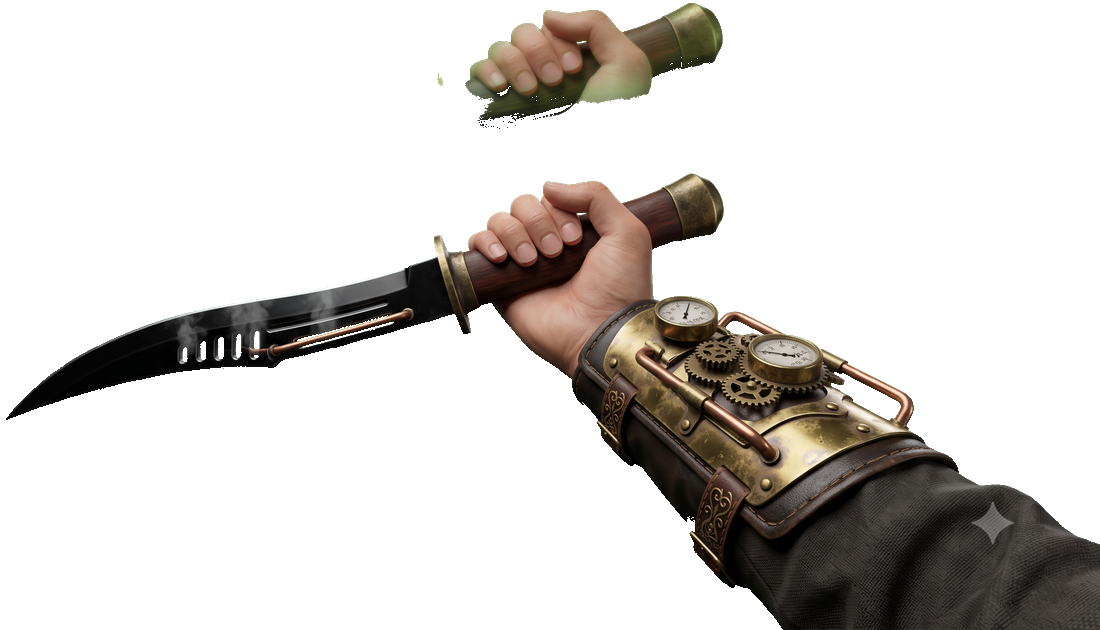
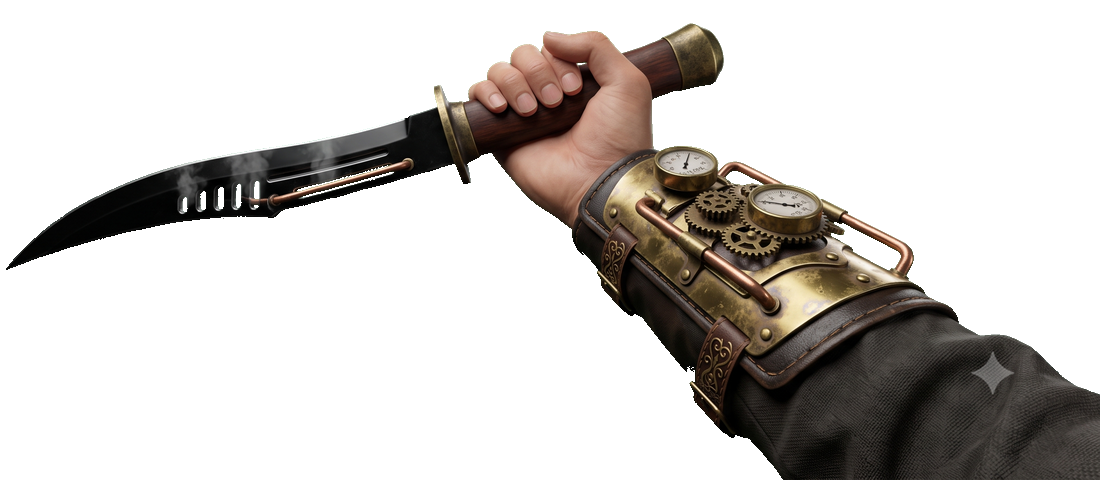
feat: 저잣거리 실사 한옥 + 휠 X자 4분할 + 환도 슥삭 베기 + 택티컬 리로드
- 저잣거리: 북촌 한옥 실사(위키미디어 CC, 야간 그레이드 컷아웃) 측면 6채 +
  관문 좌우 원경 지붕 무리 2판 — 개활지 빈 공간 해소
- 무기 휠: X자 4등분(NE장총/SE환도/SW권총/NW활) + 분할선 + 사분면 라벨(잠금 흐림),
  하이라이트 90도. 집경 카빈→승자 권총, 천마도→흑각궁(무소음 — 사격해도 경보 없음) 개명
- 환도: 유령 손 잘린 아트 크롭(1100x480), 대각 슥삭 베기 모션 + 원호 참격 플래시
- 재장전: 택티컬 리로드 4단 모션(캔트-탈착-삽탄-노리쇠 스냅 오버슈트)

Changed region(s): [[0.0, 0.0, 1.0, 0.9688]]

diff --git a/index.html b/index.html
@@ -122,7 +122,17 @@
   #wheelbox{position:relative; width:min(52vh,480px)}
   #wheelbox img{width:100%; display:block; filter:drop-shadow(0 0 30px #000)}
   #wheelhl{position:absolute; inset:5%; border-radius:50%; pointer-events:none; mix-blend-mode:screen;
-           background:conic-gradient(from calc(var(--a,0deg) - 30deg), rgba(255,180,70,.5) 0deg 60deg, transparent 60deg 360deg)}
+           background:conic-gradient(from calc(var(--a,45deg) - 45deg), rgba(255,180,70,.5) 0deg 90deg, transparent 90deg 360deg)}
+  /* X자 분할선 + 사분면 무기 라벨 */
+  #wheelx{position:absolute; inset:5%; border-radius:50%; pointer-events:none; overflow:hidden}
+  #wheelx::before, #wheelx::after{content:''; position:absolute; left:50%; top:-8%; height:116%; width:2px; margin-left:-1px;
+    background:linear-gradient(180deg, transparent, rgba(232,220,192,.55) 22%, rgba(232,220,192,.55) 78%, transparent)}
+  #wheelx::before{transform:rotate(45deg)} #wheelx::after{transform:rotate(-45deg)}
+  .wlabel{position:absolute; transform:translate(-50%,-50%); font-size:16px; font-weight:800; letter-spacing:.14em;
+          color:var(--ink); text-shadow:0 1px 4px #000, 0 0 12px rgba(0,0,0,.9); background:rgba(10,12,26,.72);
+          border:1px solid var(--line); border-radius:8px; padding:3px 12px; pointer-events:none}
+  .wlabel.locked{opacity:.4}
+  #wl-rifle{left:73%; top:27%} #wl-hwando{left:73%; top:73%} #wl-carbine{left:27%; top:73%} #wl-ritual{left:27%; top:27%}
   #wheel.flash{background:transparent; pointer-events:none}
   #wheel.flash #wheelbox{width:min(30vh,280px)}
   #wheel.flash .wheelhint{font-size:13px}
@@ -133,6 +143,16 @@
   .twchip{min-width:220px; text-align:center; background:var(--panel); border:2px solid var(--line); border-radius:12px; padding:14px 26px; font-size:19px; font-weight:800; letter-spacing:.08em; transition:border-color .12s, transform .12s}
   .twchip.sel{border-color:#ffd24a; color:#ffd24a; transform:scale(1.07); box-shadow:0 0 18px rgba(255,210,74,.35)}
   .twhint{font-size:13px; color:#8f94b5; margin-top:6px}
+
+  /* ── 환도 참격 궤적 (미러는 부모, 회전 애니는 ::before — transform 충돌 방지) ── */
+  #slashfx{position:fixed; left:50%; top:52%; width:44vmin; height:44vmin; margin:-22vmin 0 0 -22vmin; pointer-events:none; z-index:8}
+  #slashfx::before{content:''; position:absolute; inset:0; border-radius:50%; opacity:0;
+    background:conic-gradient(from 300deg, transparent 0deg, rgba(255,255,255,0) 20deg, rgba(235,245,255,.95) 55deg, rgba(159,216,212,.35) 80deg, transparent 100deg);
+    -webkit-mask-image:radial-gradient(circle, transparent 52%, #000 56%, #000 74%, transparent 78%);
+    mask-image:radial-gradient(circle, transparent 52%, #000 56%, #000 74%, transparent 78%)}
+  #slashfx.go::before{animation:slashArc .22s ease-out forwards}
+  @keyframes slashArc{0%{opacity:0; transform:rotate(-40deg) scale(.7)} 18%{opacity:1} 100%{opacity:0; transform:rotate(150deg) scale(1.15)}}
+  body.hand-L #slashfx{transform:scaleX(-1)}
 
   /* ── ADS 조준경 (스팀펑크 모노큘러) ── */
   #scope{position:fixed; inset:0; z-index:9; pointer-events:none; opacity:0}
@@ -202,9 +222,16 @@
   <div id="wheelbox">
     <img src="assets/ui/wheel.png" alt="">
     <div id="wheelhl"></div>
+    <div id="wheelx"></div>
+    <span class="wlabel" id="wl-rifle">장총</span>
+    <span class="wlabel" id="wl-hwando">환도</span>
+    <span class="wlabel" id="wl-carbine">권총</span>
+    <span class="wlabel" id="wl-ritual">활</span>
   </div>
   <div class="wheelhint" id="wheelname">Space 탭 — 무기 전환 · 1/2/3 직접 선택</div>
 </div>
+
+<div id="slashfx"></div>
 
 <!-- 투척류 휠 (G 홀드) -->
 <div id="twheel" class="hud hidden">
@@ -298,7 +325,7 @@
     <div class="ammochip" id="reschip"><span id="resval">60</span></div>
   </div>
   <div id="reloadmsg"></div>
-  <div id="wslots"><b>1</b> 영천 · <span id="ws2">2 집경</span> · <span id="ws3">3 천마도</span> · <span id="ws4">4 환도</span> · <b>Space</b> 전환/휠</div>
+  <div id="wslots"><b>1</b> 장총 · <span id="ws2">2 권총</span> · <span id="ws3">3 활</span> · <span id="ws4">4 환도</span> · <b>Space</b> 전환/휠</div>
 </div>
 <div id="ult" class="hud">
   <img id="ultimg" src="assets/ui/hud_ult.png" alt="">

diff --git a/src/vmsprite.js b/src/vmsprite.js
@@ -36,7 +36,11 @@ export function initVmSprite() {
     override = { sprite: cur(), until: now() + ms, anim: 'reload', dur: ms };
   });
   state.on('assassinateDone', () => { override = { sprite: SPRITES.dagger, until: now() + 700, anim: 'stab' }; });
-  state.on('meleeSwing', () => { override = { sprite: SPRITES.dagger, until: now() + 380, anim: 'stab', dur: 380 }; });
+  state.on('meleeSwing', () => {
+    override = { sprite: SPRITES.dagger, until: now() + 340, anim: 'slash', dur: 340 };
+    const fx = document.getElementById('slashfx');           // 참격 궤적 플래시
+    if (fx) { fx.classList.remove('go'); void fx.offsetWidth; fx.classList.add('go'); }
+  });
   state.on('grenadeThrown', () => { override = { sprite: SPRITES.grenade, until: now() + 650, anim: 'throw' }; });
   state.on('ultCastStart', () => { override = { sprite: SPRITES.mapae, until: now() + 1700, anim: 'raise' }; });
   refresh();
@@ -82,13 +86,21 @@ export function updateVmSprite(dt) {
     const dur = override.dur || 700;
     const k = 1 - Math.max(0, (override.until - t)) / dur;
     if (override.anim === 'stab') { ax = -60 * Math.sin(k * Math.PI); ay = -40 * Math.sin(k * Math.PI); ar = -8 * Math.sin(k * Math.PI); }
+    if (override.anim === 'slash') {                          // 대각 베기: 오른위→왼아래 호를 그리며 슥삭
+      const s = Math.min(1, k * 1.12);
+      ax = 110 - 300 * s;                                     // 오른쪽에서 왼쪽으로 휩쓸기
+      ay = -30 - 90 * Math.sin(s * Math.PI);                  // 호 (중간에 치켜들림)
+      ar = 26 - 78 * s;                                       // 칼날 각도 회전
+      scale = 1 + 0.12 * Math.sin(s * Math.PI);
+    }
     if (override.anim === 'throw') { ay = 30 - 90 * Math.sin(Math.min(1, k * 1.3) * Math.PI); ar = -6 * Math.sin(k * Math.PI); }
     if (override.anim === 'raise') { ay = 40 - 70 * Math.min(1, k * 2); scale = 1.06; }
     if (override.anim === 'reload') {
-      // 총을 내리고(0~0.35) → 기울여 만지작(0.35~0.8, 흔들림) → 척 올림(0.8~1)
-      if (k < 0.35) { const p = k / 0.35; ay = 90 * p; ar = 14 * p; }
-      else if (k < 0.8) { const p = (k - 0.35) / 0.45; ay = 90 + Math.sin(p * Math.PI * 3) * 10; ar = 14 - p * 4; ax = Math.sin(p * Math.PI * 2) * 8; }
-      else { const p = (k - 0.8) / 0.2; ay = 90 * (1 - p * p); ar = 10 * (1 - p); }
+      // 택티컬 리로드: 캔트(0~0.25) → 탄창 탈착 홱(0.25~0.5) → 삽탄(0.5~0.75) → 노리쇠 스냅(0.75~1)
+      if (k < 0.25) { const p = k / 0.25; ay = 55 * p; ar = 22 * p; ax = -12 * p; }
+      else if (k < 0.5) { const p = (k - 0.25) / 0.25; ay = 55 + 55 * Math.sin(p * Math.PI * 0.5); ar = 22 + 6 * p; ax = -12 - 26 * p; }
+      else if (k < 0.75) { const p = (k - 0.5) / 0.25; ay = 110 - 40 * p; ar = 28 - 8 * p; ax = -38 + 30 * p; }
+      else { const p = (k - 0.75) / 0.25; const s = 1 - (1 - p) * (1 - p); ay = 70 * (1 - s) - 8 * Math.sin(p * Math.PI); ar = 20 * (1 - s); ax = -8 * (1 - s); }
     }
   }
 

diff --git a/src/assets.js b/src/assets.js
@@ -450,6 +450,29 @@ export function buildEnvironment() {
 
   // 광화문 광장 (z 0 ~ -40): 개활 + 측면 담장 + 광화문 실루엣
   addWallRun(-16, 4, -40); addWallRun(16, 4, -40);
+  // ── 저잣거리: 실사 한옥(북촌, 위키미디어 CC) 빌보드 — 담장 너머 마을 집들 ──
+  new THREE.TextureLoader().load('assets/real_hanok_row_cut.png?v=1', (tex) => {
+    tex.colorSpace = THREE.SRGBColorSpace;
+    const W = 11, H = W / (tex.image.width / tex.image.height);
+    const hmat = new THREE.MeshBasicMaterial({ map: tex, transparent: true, alphaTest: 0.06, color: 0x9aa4c8, depthWrite: true, side: THREE.DoubleSide });
+    const hgeo = new THREE.PlaneGeometry(W, H);
+    for (const [x, z, flip] of [[-20.5, -6, 1], [-20.5, -19, -1], [-20.5, -33, 1], [20.5, -10, -1], [20.5, -24, 1], [20.5, -38, -1]]) {
+      const p = new THREE.Mesh(hgeo, hmat);
+      p.position.set(x, H / 2 - 0.3, z);
+      p.rotation.y = (x < 0 ? 1 : -1) * Math.PI / 2;
+      p.scale.x = flip;   // 미러 변주
+      env.add(p);
+    }
+  });
+  // 관문 좌우 원경 한옥 지붕 무리 (블루아워 북촌 크롭)
+  new THREE.TextureLoader().load('assets/real_hanok_far_cut.png?v=1', (tex) => {
+    tex.colorSpace = THREE.SRGBColorSpace;
+    const W = 24, H = W / (tex.image.width / tex.image.height);
+    const fmat = new THREE.MeshBasicMaterial({ map: tex, transparent: true, alphaTest: 0.06, color: 0x707ca4, depthWrite: true });
+    const p1 = new THREE.Mesh(new THREE.PlaneGeometry(W, H), fmat);
+    p1.position.set(-17, H / 2 + 1.2, -48); env.add(p1);
+    const p2 = p1.clone(); p2.position.set(18, H / 2 + 0.9, -47.5); p2.scale.x = -1; env.add(p2);
+  });
   { // 담장 디테일 (시각 전용 1메시): 하단 장대석 트림 + 6.6m 간격 석주 + 기와 캡 용마루
     const wp = [];
     for (const side of [-1, 1]) {

diff --git a/src/config.js b/src/config.js
@@ -32,8 +32,9 @@ export const PLAYER = {
 // ── 무기 — PPTX {0}/{1} 규칙: 재장전량 = min(MaxMag-현재, 예비), 예비에서 정확히 차감 ──
 export const WEAPONS = {
   rifle:   { key: 'rifle',   name: '영천 장총', mag: 6, reserve: 60, dmg: 10, weakMult: 2, fireMs: 330, reloadMs: 600,  spread: 12, kick: 0.045 },
-  carbine: { key: 'carbine', name: '집경 카빈', mag: 8, reserve: 48, dmg: 6,  weakMult: 2, fireMs: 180, reloadMs: 800,  spread: 24, kick: 0.028 },
-  ritual:  { key: 'ritual',  name: '천마도',    mag: 1, reserve: 3,  dmg: 60, weakMult: 2, fireMs: 800, reloadMs: 1600, spread: 8,  kick: 0.10 },
+  carbine: { key: 'carbine', name: '승자 권총', mag: 8, reserve: 48, dmg: 6,  weakMult: 2, fireMs: 180, reloadMs: 800,  spread: 24, kick: 0.028 },
+  ritual:  { key: 'ritual',  name: '흑각궁',    mag: 1, reserve: 3,  dmg: 60, weakMult: 2, fireMs: 800, reloadMs: 1600, spread: 8,  kick: 0.10,
+             silent: true },   // 활 — 무소음 (은신 시너지)
   hwando:  { key: 'hwando',  name: '환도',      mag: 1, reserve: 0,  dmg: 34, weakMult: 2, fireMs: 420, reloadMs: 0,    spread: 0,  kick: 0.06,
              melee: true, range: 2.6, arcDeg: 100 },   // 근접 — 탄약 없음, 숏앤슬래시
 };

diff --git a/src/ui.js b/src/ui.js
@@ -171,7 +171,7 @@ function renderAmmo() {
   renderSlots();
   renderWheelHl(state.currentWeapon);
 }
-const WHEEL_ANGLE = { rifle: 0, hwando: 60, carbine: 180, ritual: 240 }; // 휠 아트 섹터: 승자총통/환도/신기전/비격진천뢰
+const WHEEL_ANGLE = { rifle: 45, hwando: 135, carbine: 225, ritual: 315 }; // X자 4등분: ↗장총 ↘환도 ↙권총 ↖활
 function renderWheelHl(key) {
   const k = key || state._wheelPick || state.currentWeapon;
   $('wheelhl').style.setProperty('--a', (WHEEL_ANGLE[k] || 0) + 'deg');
@@ -207,6 +207,9 @@ function renderSlots() {
   $('ws2').style.opacity = state.unlockedWeapons.includes('carbine') ? 1 : 0.3;
   $('ws3').style.opacity = state.unlockedWeapons.includes('ritual') ? 1 : 0.3;
   const w4 = $('ws4'); if (w4) w4.style.opacity = state.unlockedWeapons.includes('hwando') ? 1 : 0.3;
+  for (const k of ['rifle', 'carbine', 'ritual', 'hwando']) {   // 휠 사분면 라벨 잠금 표시
+    const el = $('wl-' + k); if (el) el.classList.toggle('locked', !state.unlockedWeapons.includes(k));
+  }
 }
 function renderItems() {
   $('it-tonic').innerHTML = `탕약 <b>×${state.items.tonic}</b> <span style="opacity:.6">T</span>`;

diff --git a/src/enemies.js b/src/enemies.js
@@ -2,7 +2,7 @@
 // TC 대원칙: 잡졸(화승병) 사격은 전부 연출탄(데미지 0). 위협은 명중탄 스케줄뿐.
 
 import * as THREE from 'three';
-import { ENEMIES, DANGER, SCORE, PLAYER } from './config.js';
+import { ENEMIES, DANGER, SCORE, PLAYER, WEAPONS } from './config.js';
 import { state, now } from './state.js';
 import { buildSoldier, retrofitSoldierAnim } from './assets.js';
 import { registerHittable, unregisterActor, spawnDangerShot, creditKill, creditHit, creditShootdown, damagePlayer } from './combat.js';
@@ -19,7 +19,10 @@ const _v = new THREE.Vector3(), _q = new THREE.Quaternion(), _m = new THREE.Matr
 export function initEnemies(sc) {
   scene = sc;
   // 은신 시스템: 사격 소리는 존 전체 경보
-  state.on('shotFired', () => { for (const a of actors) a.aware = true; });
+  state.on('shotFired', () => {
+    if (WEAPONS[state.currentWeapon]?.silent) return;   // 흑각궁: 무소음 — 경보 없음
+    for (const a of actors) a.aware = true;
+  });
   state.on('assassinatePressed', tryAssassinate);
   // 애니 GLB 로드 완료 → 살아있는 액터 + 풀 전체 일괄 소급
   state.on('soldierGLBReady', () => {

diff --git a/src/audio.js b/src/audio.js
@@ -14,7 +14,10 @@ export function initAudio() {
     state.emit('muteChanged');
   });
   // 게임 이벤트 → SFX
-  state.on('shotFired', () => sfxShot());
+  state.on('shotFired', () => {
+    if (WEAPONS[state.currentWeapon]?.silent) sfxShot(0.28, 1500);  // 활 — 낮은 시위 튕김
+    else sfxShot();
+  });
   state.on('decoyShot', () => sfxShot(0.35, 900));
   state.on('shotHit', ({ weak }) => sfxHit(weak));
   state.on('enemyKilled', () => sfxKill());
